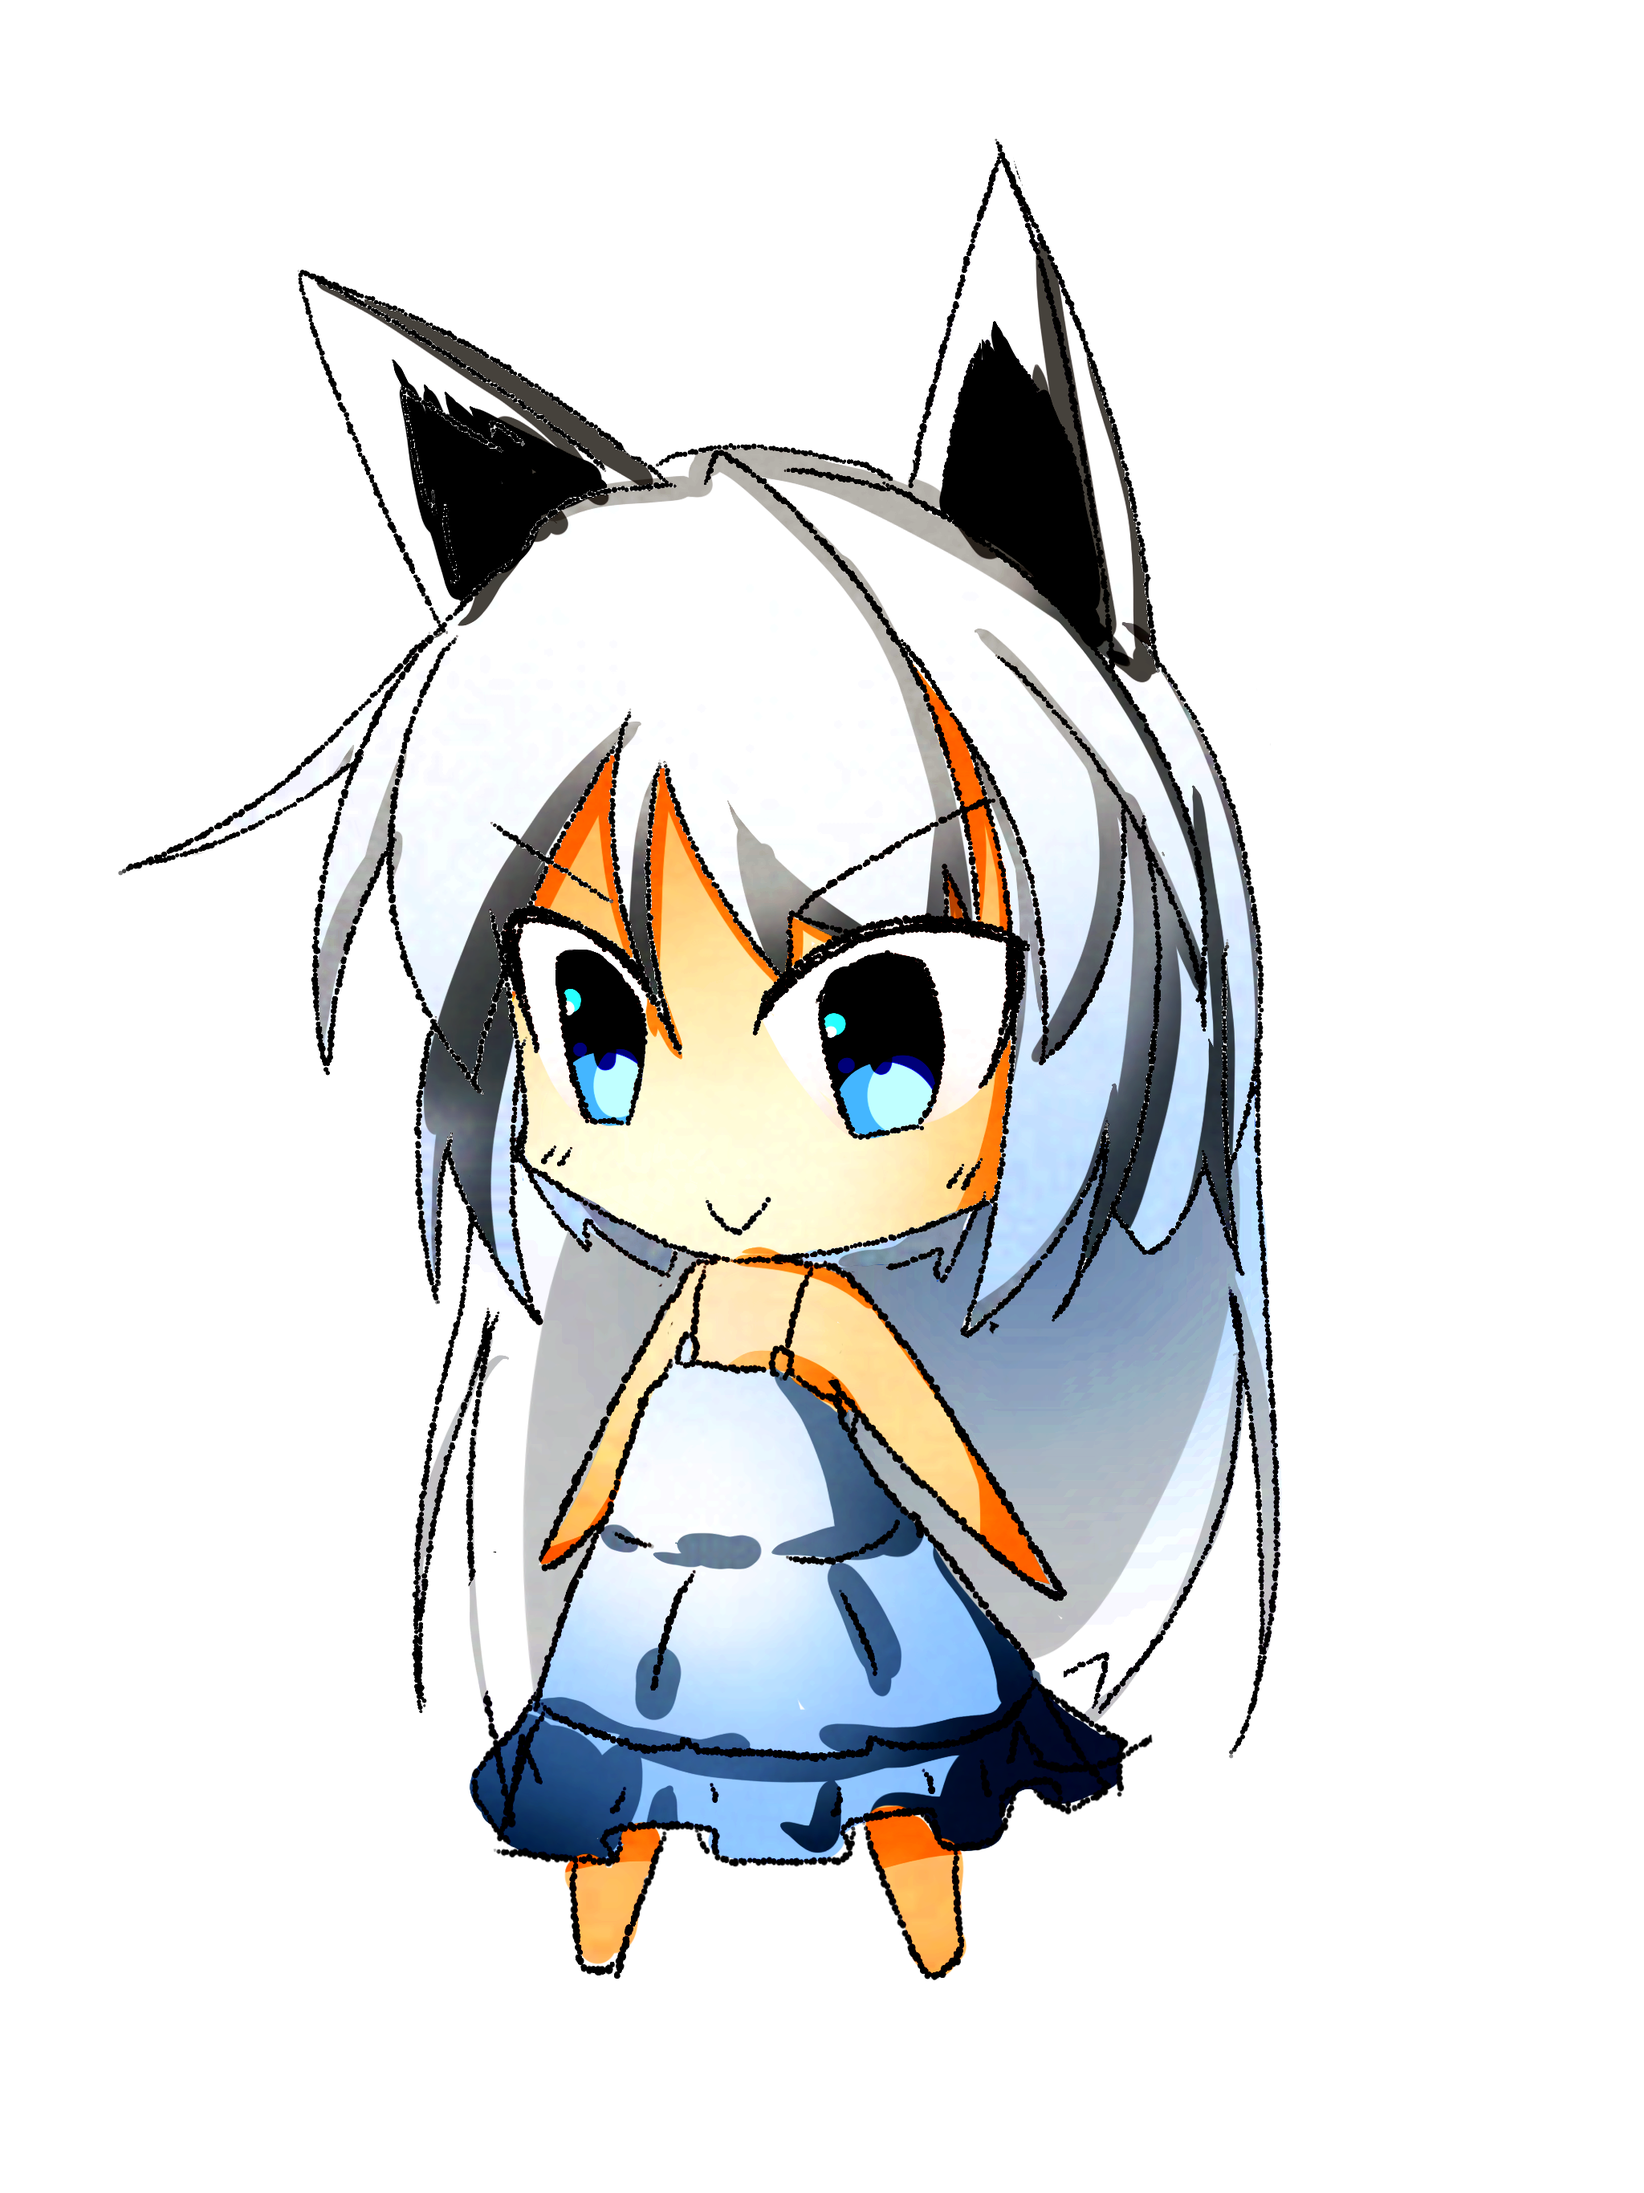
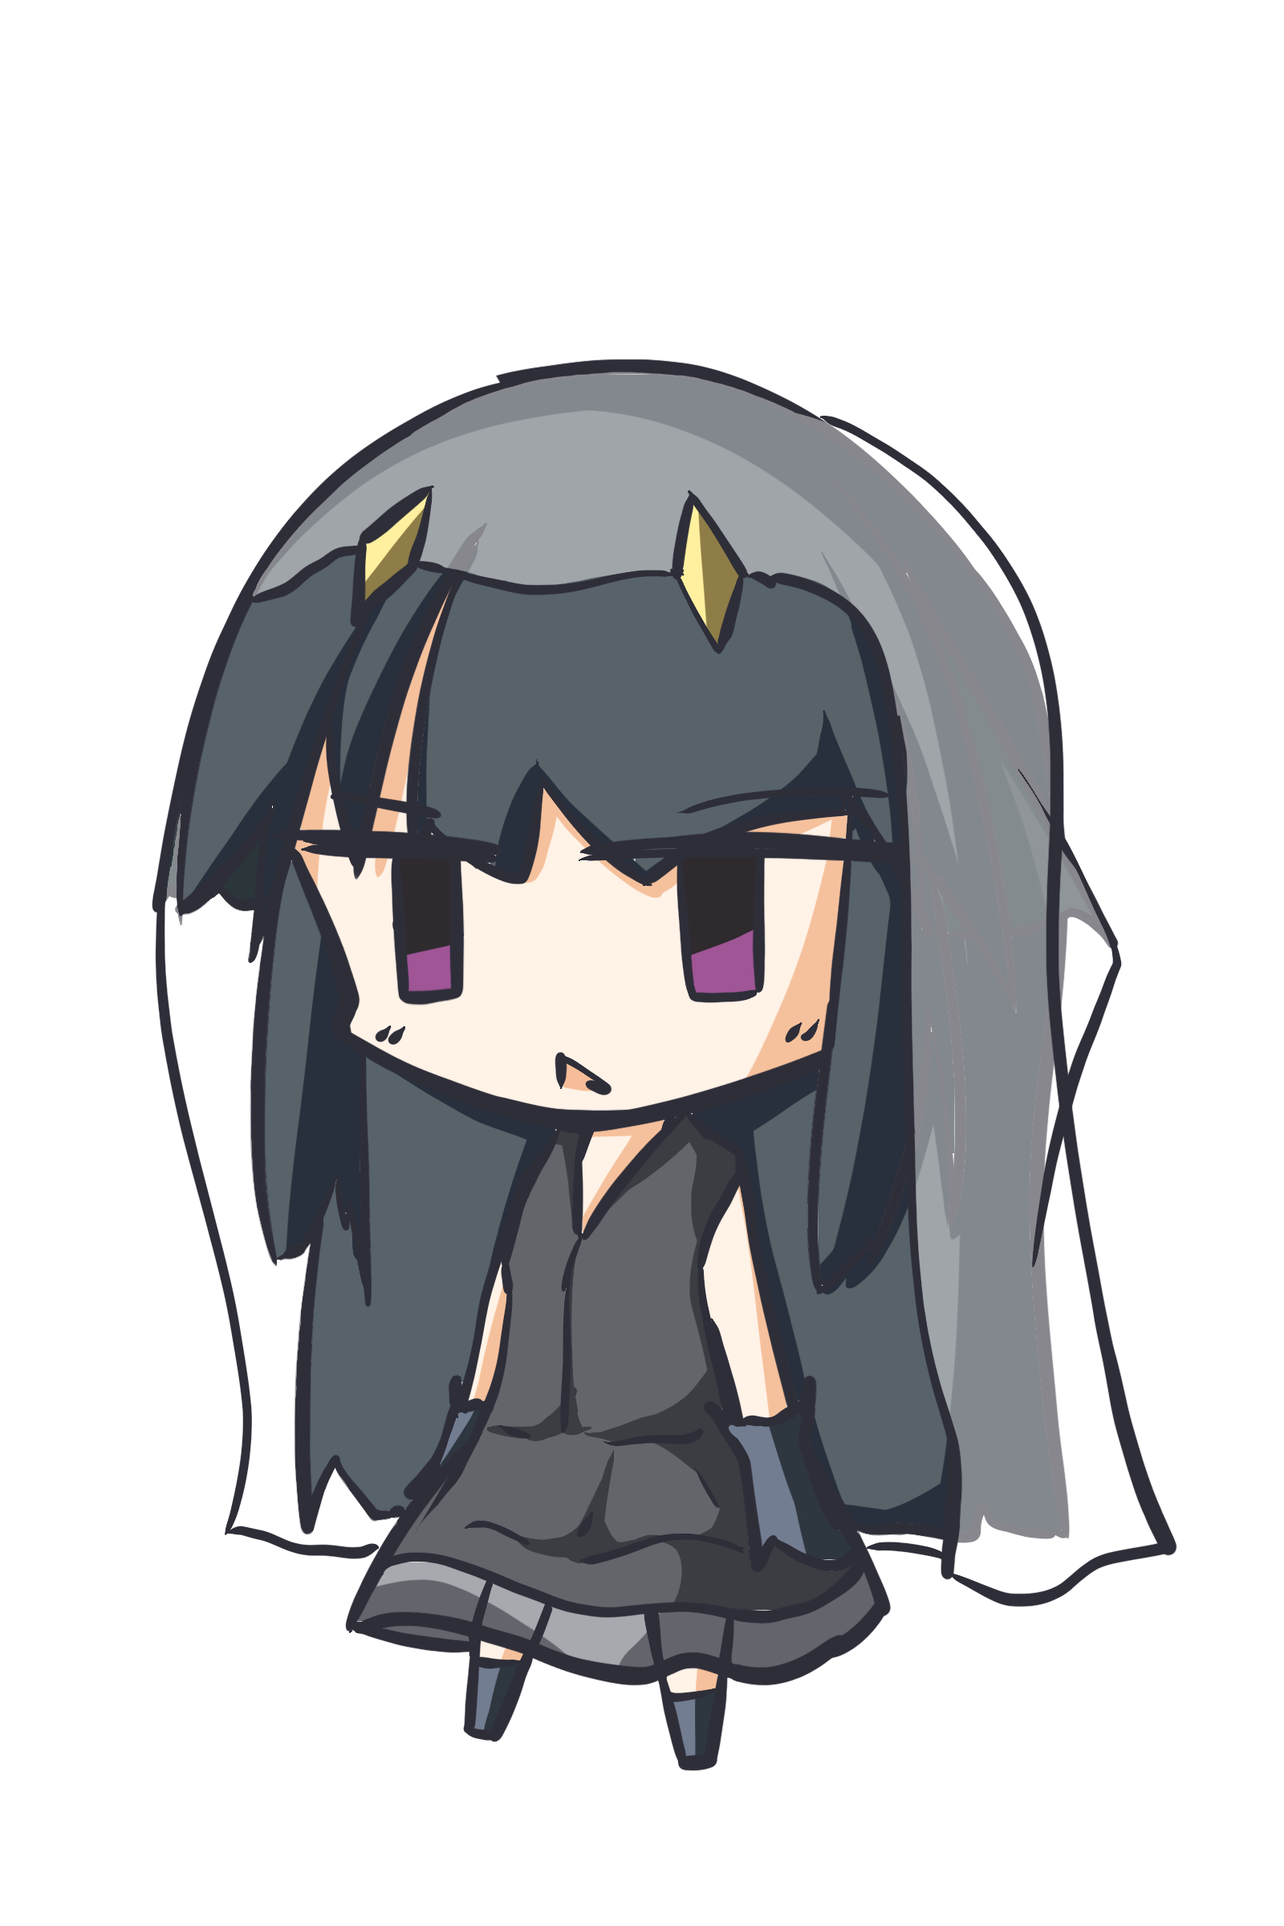
くろこ画像追加 / アイテムの種別に合わせてアイコンを変える

diff --git a/js/neko.js b/js/neko.js
@@ -702,6 +702,9 @@ function updateEquipListName(){
 		//一旦クラスリセット
 		equip_name_list[i].setAttribute("class","equip_list_text")
 
+		//一旦アイコンをデフォのやつに
+		$(".equip_list_icon")[i].setAttribute("src","images/neko/icons/unachieved.png")
+
 		//レアリティ・装備済反映
 		if(data.item_data[target_item_id]){
 			var rarity = data.item_data[target_item_id].rarity
@@ -709,12 +712,16 @@ function updateEquipListName(){
 
 			if(target_item_lv){
 				additional_class_name = getRarityClassName(rarity)
+				//アイコン反映
+				var icon_name = getItemIconNameFromTypeID(data.item_data[target_item_id].category)
+				$(".equip_list_icon")[i].setAttribute("src","images/neko/icons/"+icon_name+".png")
 			}	
 
 			//装備済反映
 			if(isAlreadyEquipped(target_item_id)){
 				additional_class_name += " equipped"
 			}
+
 
 		}
 		equip_name_list[i].setAttribute("class","equip_list_text "+additional_class_name)
@@ -952,6 +959,30 @@ function unEquip(slice=false){
 	updateCurrentTotalParameter()
 	updateEquipList()
 
+}
+
+function getItemIconNameFromTypeID(type_id){
+	switch(type_id){
+		case "0":
+		return "unachieved"
+		break
+		case "1":
+		return "weapon"
+		break
+		case "2":
+		return "shield"
+		break
+		case "3":
+		return "other"
+		break
+		case "4":
+		return "meal"
+		break
+		default:
+		log(type_id)
+		log("なんか変なタイプ名投げられた.")
+		break
+	}
 }
 
 //現在装備エリアの表示反映を行う

diff --git a/neko.html b/neko.html
@@ -97,11 +97,10 @@
 				<ul id="message_logs"></ul>
 			</div>
 			<div id="character_siro">
-				<img src="images/neko/chara/neko.png" class="character_chip">
-				しろこ
+				<img src="images/neko/chara/siro.png" class="character_chip">
 			</div>
 			<div id="character_kuro">
-				くろこ
+				<img src="images/neko/chara/kuro.png" class="character_chip">
 			</div>
 			<div id="character_message_area">
 				キャラが喋るとこ

diff --git a/css/neko.css b/css/neko.css
@@ -233,7 +233,7 @@ header{
 }
 
 .character_chip{
-	width: 150px;
+	width: 120px;
 	height: 180px;
 }
 
@@ -247,16 +247,14 @@ header{
 	left: 440px;
 	width: 150px;
 	height: 180px;
-	border: 1px dotted #FFFFFF;	
 }
 
 #character_kuro{
 	position: absolute;
-	top: 350px;
+	top: 370px;
 	left: 510px;
 	width: 140px;
 	height: 170px;
-	border: 1px dotted #FFFFFF;	
 }
 
 #character_message_area{
